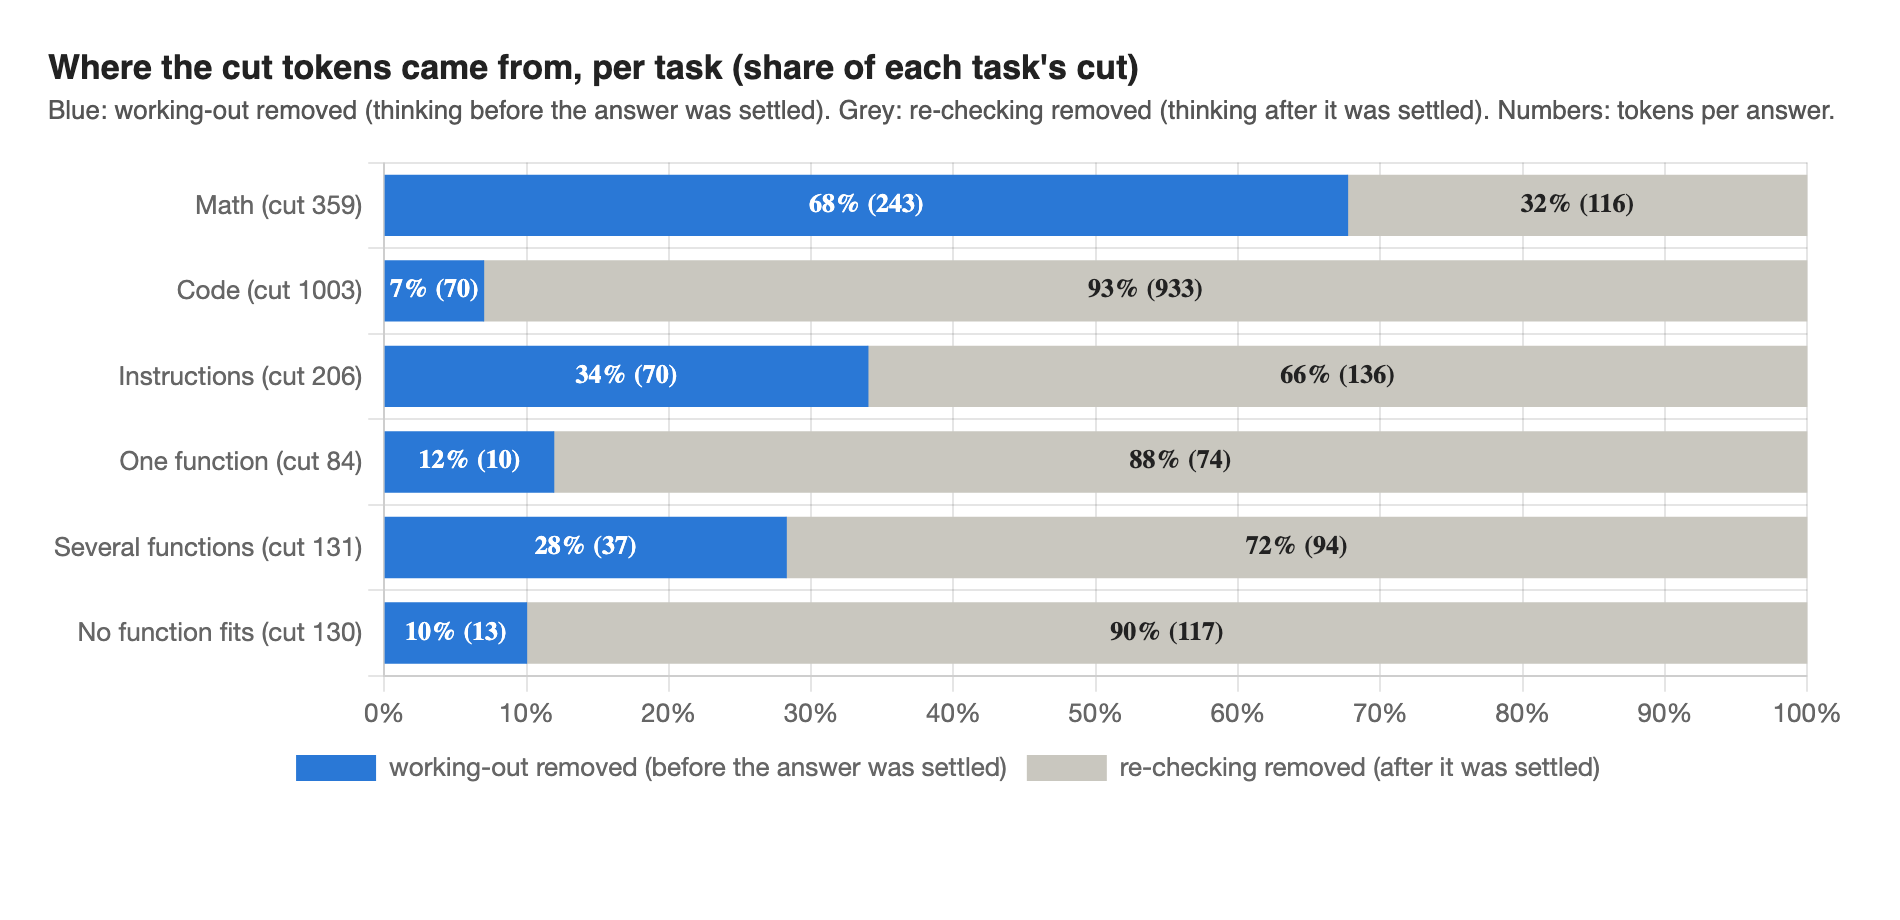
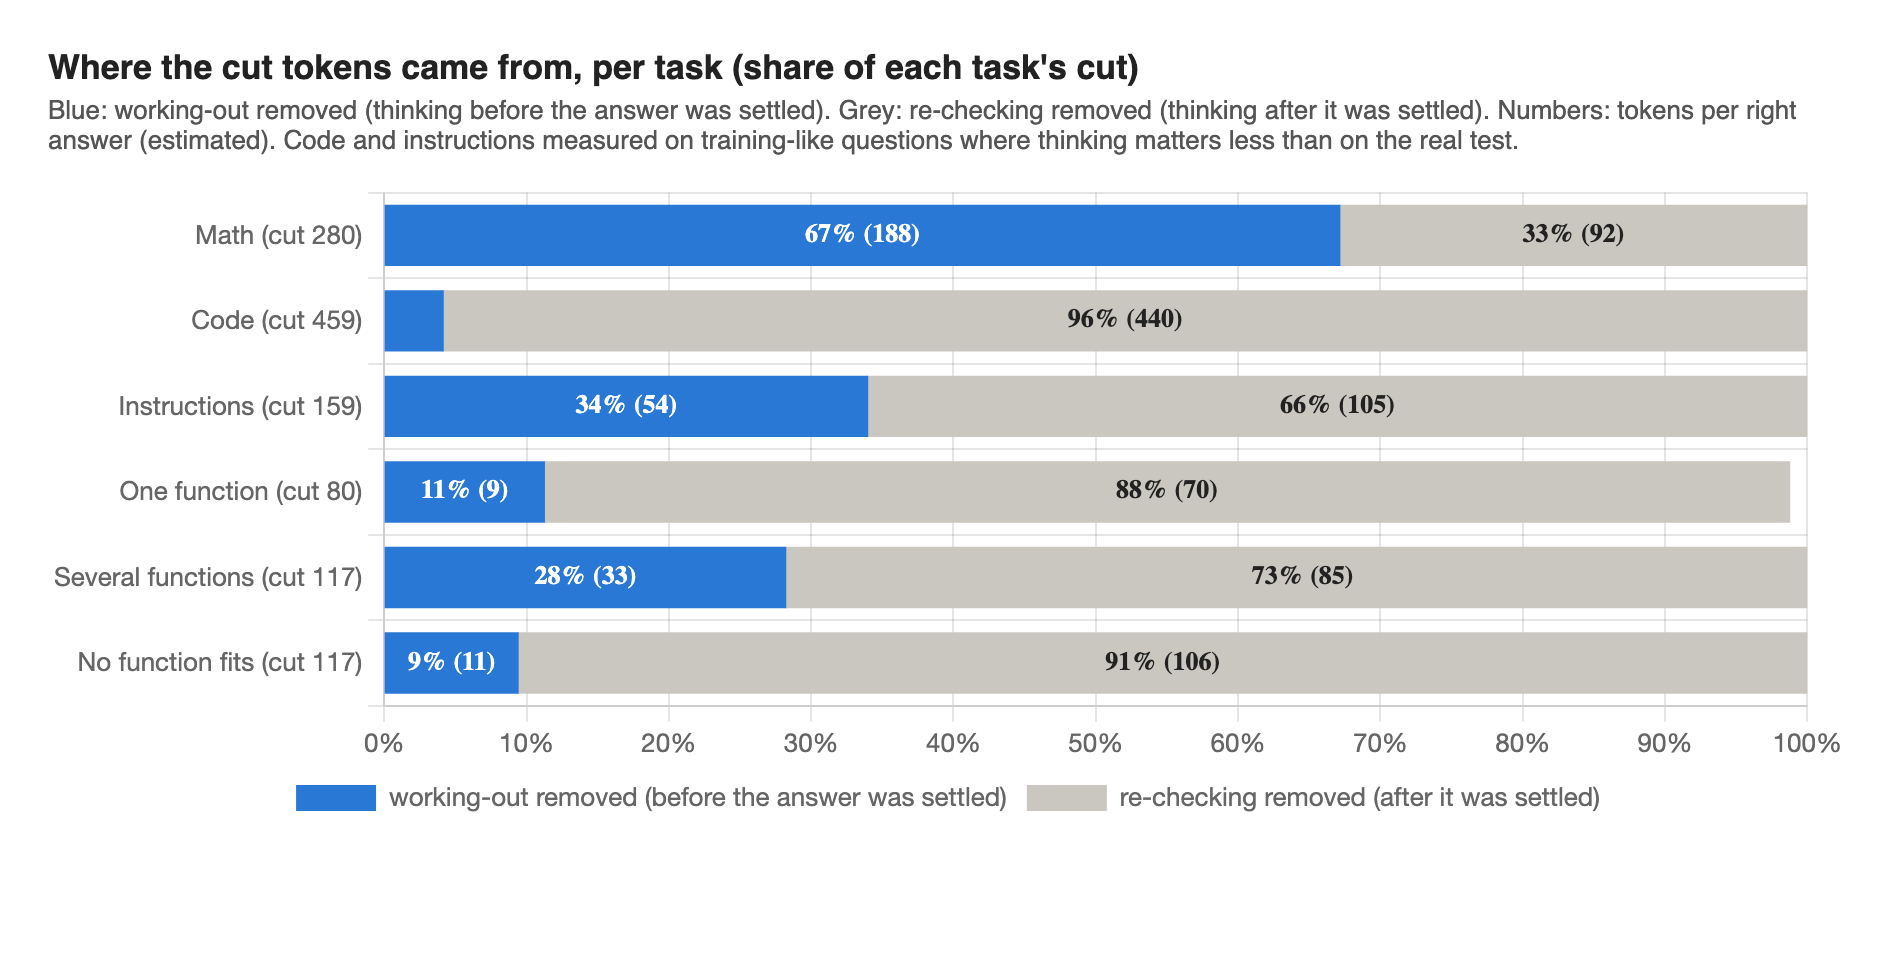
correction 2: before/after-settle split per right answer; code/IFEval slice caveat

diff --git a/thinkingcap/EXPERIMENT_LOG.md b/thinkingcap/EXPERIMENT_LOG.md
@@ -7102,3 +7102,4 @@ Ops: restarts restore every finished odpo round's model from Drive just to skip 
 - 19 Nov ~01:20 CET **effprobe DONE. Where the cut came from, per type (causal settle point)**: share of the cut that was working-out (before the answer is settled) vs re-checking (after): math 68% / 32%, code 7 / 93, IFEval 34 / 66, one function 12 / 88, several 28 / 72, no-fit 10 / 90. **Surprisal (bits per thinking token, sample 0, 1,560 traces)**: original reading its own thinking 0.49, the trained model reading its own 0.80 (+62%); the original reading the trained model's thinking 0.81 vs its own 0.49: the trained thinking carries more new information per token for BOTH readers (math 0.39 -> 0.68 read by the original), i.e. the predictable repetition is gone; total bits per math answer still lower (640 x 0.39 = 251 vs 281 x 0.68 = 190). **eff_allocate** (unseen slices, the trained model's budget curves): natural 51.9% / +2.26 vs the original; best per-task budgets at the same accuracy: **82.2% saved / +2.28** = math natural, code b0 (no thinking), IFEval b0, no-fit b0, one function b3, several b1 (thinking adds ~nothing on code / IFEval / no-fit: cutting it there is ~free on average, code -3 pts offset elsewhere). Input for consult31 (>60%).
 - 19 Nov ~01:40 CET **CORRECTION (user challenged the 82%)**: eff_allocate's "82.2% saved at the same accuracy" is arithmetically right on the unseen slices (ratios math 0.446, code 0.035, IFEval 0.248, tools 0.256; the geometric mean is dominated by code with no thinking, 66 vs 1,865 tokens) but NOT a reliable full-test estimate: (1) on these slices thinking barely matters for code (original no-thinking -2.3) and IFEval (+2.7), while on the FULL TEST the original with thinking off loses 9.1 on code and 5.0 on IFEval: the slices understate what thinking is worth there; with the full-test thinking-off costs the same allocation gives about 82% / -2.2 vs the original (outside the goal); (2) the trained model reads +2.26 on these slices vs -0.78 on the full test (~3 pts optimistic). What holds: per-task budgets are a large lever under the geometric mean, but code / IFEval thinking can only be cut partly; must be checked on the full test (or Dev), not on the slices.
 - 19 Nov ~00:25 CET **od5f r21 MONITOR (model od5f-r20 on slice 21): 55.1% / +1.99** (r19 on slice 20: 47.8 / +2.90). Per type: no-fit 64 / +8.3, code 43 / -1.9, math 62 / -1.7, IFEval 59 / +6.6, simple 52 / +5.0, several 54. models/od5f-r21 saved; GPU 2 continues with rounds 22-23. GPU 1: newtop r2x-code-m1 started (prepare_types OK, build_pool running).
+- 19 Nov ~01:50 CET **CORRECTION 2 (self-check, user asked to double-check everything)**: the before/after-settle token split mixed the post-settlement share (measured on RIGHT answers) with mean thinking over ALL answers (wrong answers are longer). Recomputed per right answer (right-answer thinking estimated with the full test's wrong/right length ratios): math original ~531 = 378 working-out + 153 re-checking, trained ~251 = 190 + 61; cut 280 = 67% working-out / 33% re-checking (shares unchanged, token counts were ~25% too high). Per type: code 4/96, IFEval 34/66, one function 11/88, several 28/73, no-fit 9/91. Charts redone. CAVEAT 2: on the effprobe slices thinking is worth little for code (-2.3 with no thinking) and IFEval (+2.7) while the full test says -9.1 / -5.0: code and IFEval conclusions from these slices may not transfer (math and tools agree with the full test). This also means the training slices, matched on solve rate and length, do not match the test on how much thinking matters for code / IFEval (flag for consult31 and od3branch).

diff --git a/thinkingcap/reviews/consult31_over60/effprobe/README.md b/thinkingcap/reviews/consult31_over60/effprobe/README.md
@@ -14,8 +14,14 @@ Qwen3-0.6B ("base") and od5c-best (online DPO od5c round 16, full test 54.8 / -0
 
 Key readings (see EXPERIMENT_LOG.md, 19 Nov 01:00-01:20):
 1. Math at equal tokens: trained 87.9% at ~290 tokens; the original stopped at ~300 tokens 47-57%.
-2. Share of the cut that was working-out (before the answer settles) vs re-checking: math 68/32, code 7/93, IFEval 34/66,
-   one function 12/88, several 28/72, no-fit 10/90.
+2. Share of the cut that was working-out (before the answer settles) vs re-checking, per RIGHT answer (thinking of right
+   answers estimated from each type's mean and the full test's wrong/right length ratio, since the post-settlement share is
+   measured on right answers only): math 67/33 (original ~531 -> trained ~251 thinking tokens: 378+153 -> 190+61),
+   code 4/96, IFEval 34/66, one function 11/88, several 28/73, no-fit 9/91.
+   CAVEAT for code and IFEval: on these slices thinking is worth little (original no-thinking -2.3 code, +2.7 IFEval) while on
+   the full test thinking off costs -9.1 and -5.0: the slices' code / IFEval do not depend on thinking like the test's do, so
+   conclusions for those two types may not transfer. Math and tool calls agree with the full test (thinking-off: simple -9.4
+   here vs -11.6 full, several -15.8 vs -17.2, no-fit +5.3 vs +6.2; math natural 88.6 here vs 88.7 test).
 3. Surprisal: the original reads the trained thinking at 0.81 bits/token vs its own 0.49 (math 0.39 -> 0.68): repetition gone.
 4. No thinking at all: trained 50.2% vs original 47.2% (all types): the model itself improved.
 5. Per-task budgets (math full, code / IFEval / no-fit none, tools small): 82% saved at the same average accuracy ON THESE SLICES,
